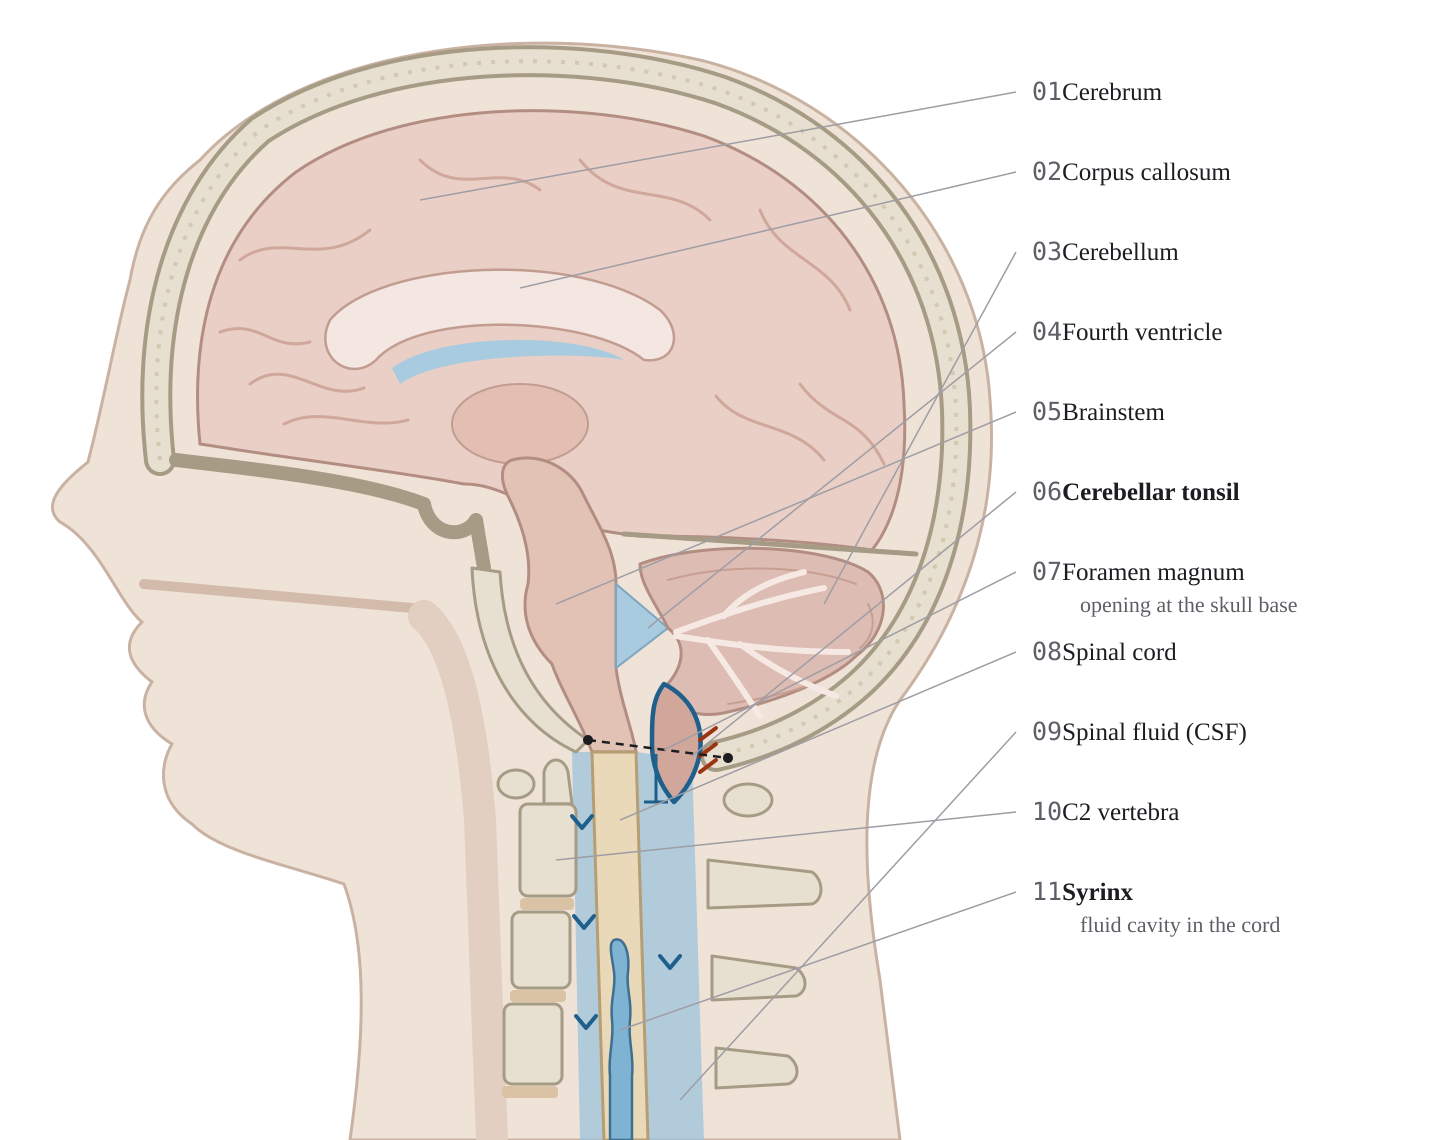
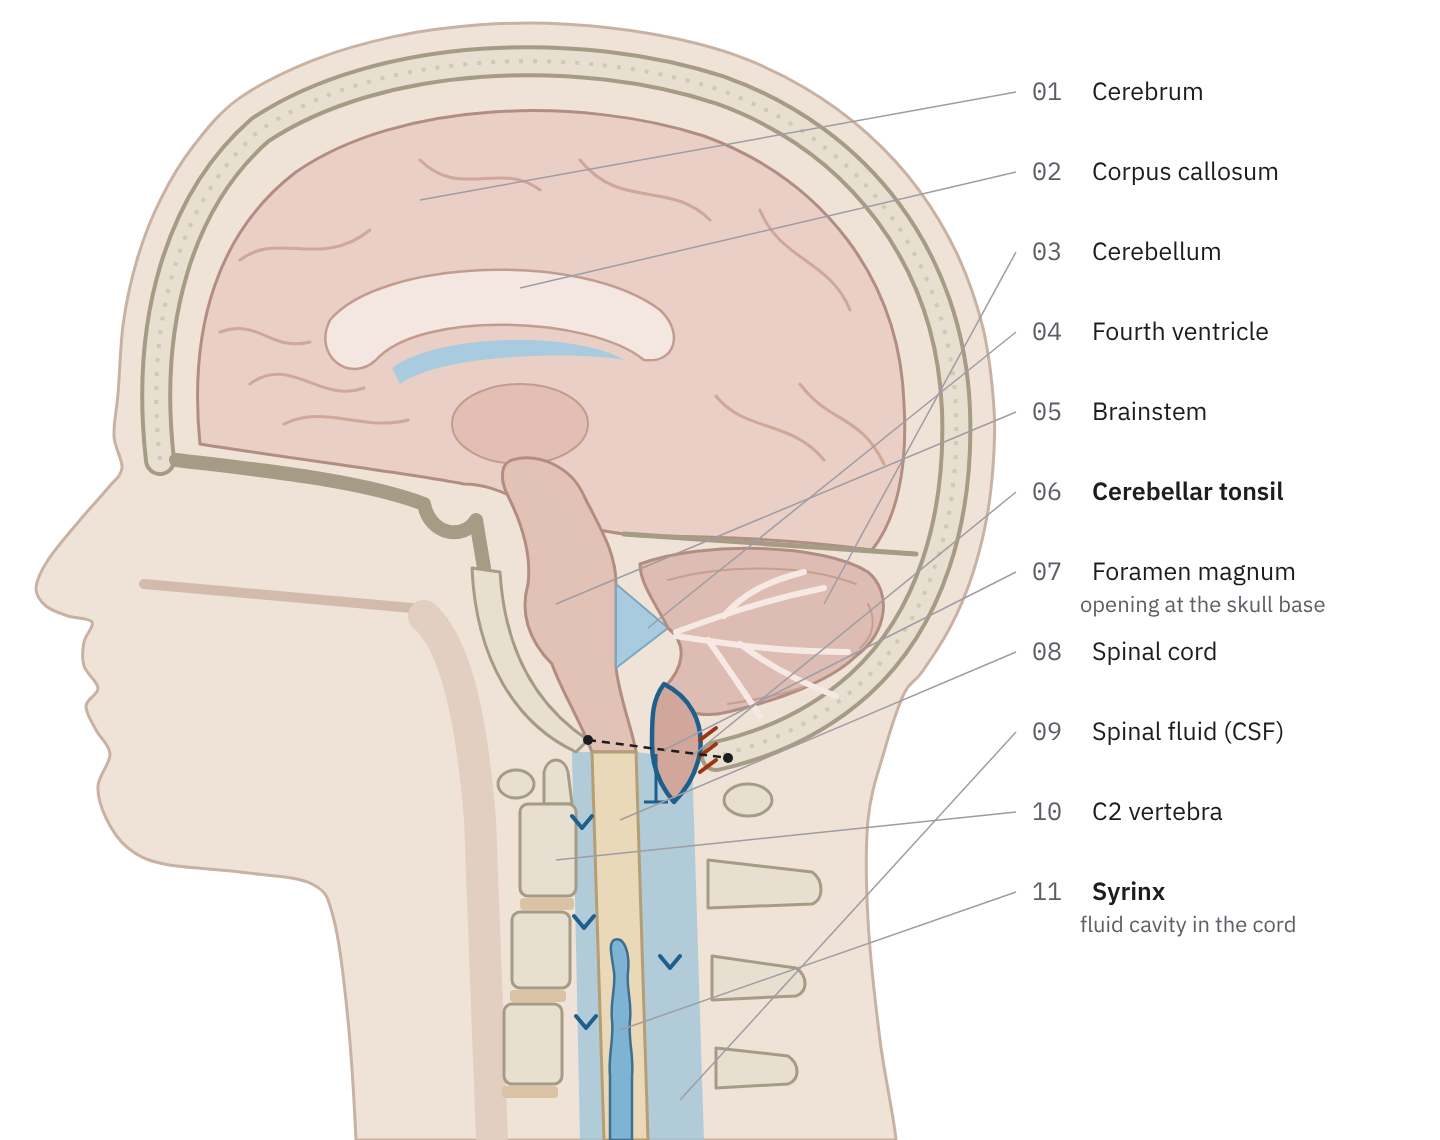
Update reference figures to the new head outline
All four design/figures SVGs use the realistic head outline from the site
component; PNGs re-rendered with the site fonts. Inner structures unchanged.

Claude-Session: https://claude.ai/code/session_01FcT5fH79uYKqQCmSWCabgW

diff --git a/docs/PROGRESS.md b/docs/PROGRESS.md
@@ -7,7 +7,7 @@ Claude Code: add an entry after each working session (date, what was done, what'
 - **Matthew's feedback:** the head in the figure looked off; it should look like a real head. The mockups are reference ideas, not exact designs.
 - **Done:** redrew only the outer skin outline in `src/components/AnatomyFigure.astro`. The top and back of the head now follow the skull with an even scalp. The face is a realistic adult profile (upright forehead, brow, bridge of the nose, nose, lips, chin, jaw line, neck).
 - **Unchanged:** every inner structure (skull, brain, tonsils, McRae line, descent bracket, spine, cord, spinal fluid), so nothing in EVIDENCE.md is affected.
-- **Open question:** `design/figures/` (the 3D reference renders) still show the old head. Update them to match? The Simple 3D model in step 4 should follow the new outline either way.
+- **Reference figures updated** (Matthew approved): all four `design/figures/` SVGs and PNGs now use the new head outline. PNGs re-rendered with the site fonts (the old renders used a fallback serif font). `design/mockups/Anatomy.dc.html` still has the old outline; the site component and `design/figures/` are now the reference.
 
 ## 2026-11-04: Phase 1, step 1: project setup and Home page
 
